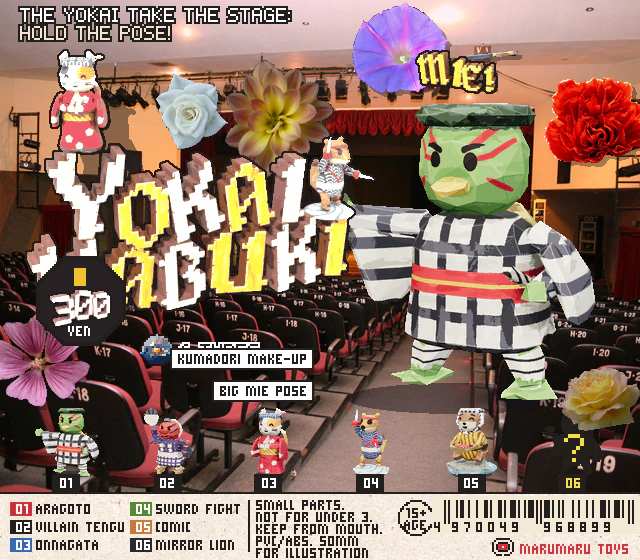
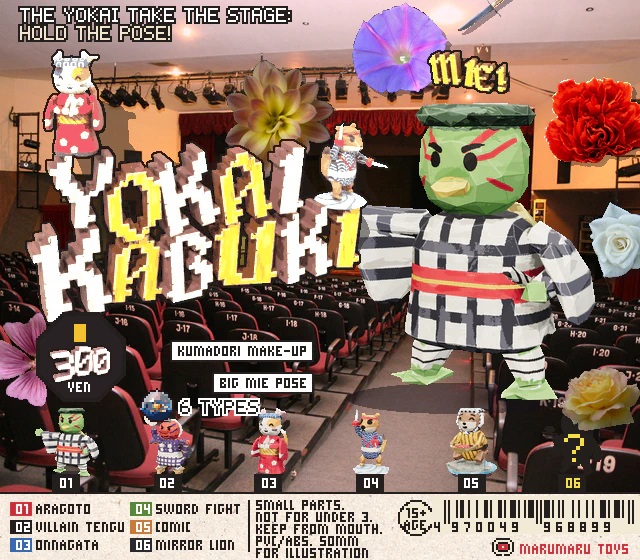
Work in progress (phase 6): Cards: fix SUIT, KABUKI and STATIONERY title legibility
A save point while the passes are still running. This snapshot builds; it has not been run-tested, and parts
that are mid-rebuild may fail at runtime. Don't ship from this commit.

Claude-Session: https://claude.ai/code/session_01N97Lkr91fG9tbEuHne6nWv

diff --git a/tools/logo3d.py b/tools/logo3d.py
@@ -67,10 +67,10 @@ def spec(sid, c, items, hero, box, name=None):
     # sizes: first letter of each line a step bigger, one more letter a little bigger; the lines balanced in width
     def width(row, s):
         return sum((g['w'] * s * g['k'] + 0.03 * s) if g else 0.34 * s for g in row)
-    for row in rows:
+    for j, row in enumerate(rows):  # the big first letter only on the bottom line (a big one on top reads as a stray)
         big = rn.randrange(1, max(2, len(row)))
         for i, g in enumerate(row):
-            if g: g['k'] = 1.24 if i == 0 and len(row) > 3 else 1.1 if i == big else 1.0
+            if g: g['k'] = 1.24 if i == 0 and len(row) > 3 and j == len(rows) - 1 else 1.1 if i == big else 1.0
     sl = [1.0] * n
     if two:
         wb = width(rows[-1], 1); wt = max(width(r, 1) for r in rows[:-1])
@@ -86,18 +86,21 @@ def spec(sid, c, items, hero, box, name=None):
         x += rn.uniform(-0.08, 0.08) if top else 0
         for i, g in enumerate(row):
             if not g: x += 0.34 * s; continue
+            if g['punct']: x += 0.1 * s  # punctuation stands clear of the word (never hides a letter)
             sk = s * g['k']; w = g['w'] * sk; sgn = -sgn
             tilt = sgn * rn.choice([2, 3, 5, 6]) if not g['punct'] else 0
             if j == 0 and i == lean: tilt = rn.choice([-1, 1]) * 10
-            fc = (pop if i % 2 else fill) if scheme == 'alt' else (pop if top else fill) if scheme == 'line' else (pop if i == 0 else fill)
+            fc = (pop if i % 2 else fill) if scheme == 'alt' else (pop if top else fill) if scheme == 'line' else (pop if i == 0 and j == 0 else fill)
             fc = mixc(fc, 0xffffff if rn.random() < 0.5 else 0x000000, rn.uniform(0.0, 0.06))  # each letter its own pot
             sd = mixc(deep(fc, 0.5), side, 0.3)  # the extruded side: a darker shade of the face, toward the series colour
-            g.update(s=sk, x=x + w / 2, y=(0.05 * (bot_line - j) + rn.uniform(-0.02, 0.04)) if top else (0.15 if i % 2 else 0.0),
+            g.update(s=sk, x=x + w / 2, y=(0.05 * (bot_line - j) + rn.uniform(-0.02, 0.04)) if top else (0.08 if i % 2 else 0.0),
                      line=j, depth=0.4, cham=min(0.22 * p, 0.035), tilt=tilt, yaw=rn.uniform(-8, 8) if not g['punct'] else 0,
                      pitch=rn.uniform(-4, 5), front=tones(fc), rim=tones(mixc(fc, 0xfff8e8, 0.45), (3, 5, 6)), side=tones(sd, (1, 3, 4)),
                      chip_f=_rgb(mixc(fc, 0xf4ecdc, 0.55)), chip_r=_rgb(deep(sd, 0.5)), chip_s=_rgb(mixc(sd, 0xf4ecdc, 0.45)),
                      stroke=(rn.uniform(-1.4, 1.4), rn.uniform(2.6, 4.0), rn.uniform(0.7, 1.0)), idx=i)
-            L.append(g); x += w + 0.03 * s
+            nx = row[i + 1] if i + 1 < len(row) else None
+            thin = g['w'] < 0.4 or (nx is not None and (nx['punct'] or nx['w'] < 0.4))  # air around I and punctuation
+            L.append(g); x += w + (0.1 if thin else 0.03) * s
     # toys: two or three of the series' own figures, each in a different role (never the card's hero)
     pool = [it['id'] for it in items if not it['secret'] and it['id'] != hero and os.path.exists(os.path.join(BUILD, sid, it['id'] + '.glb'))]
     rn.shuffle(pool); hs = min(sl[-1], 1.3)
@@ -126,8 +129,10 @@ def spec(sid, c, items, hero, box, name=None):
             at = max(cand, key=far) if used else rn.choice(cand)
             h = 1.35 * hs
         elif role in ('push', 'peek'):
-            at = bot[-1] if where == 'r' else bot[0]; h = (1.25 if role == 'push' else 1.45) * hs
-            if role == 'push': L[at]['tilt'] = (-12 if where == 'r' else 12)
+            ends = [k for k, g in enumerate(L) if g['line'] == bot_line]  # the true end glyph, punctuation too
+            at = (ends[-1] if role == 'push' else bot[-1]) if where == 'r' else (ends[0] if role == 'push' else bot[0])
+            h = (1.25 if role == 'push' else 1.45) * hs
+            if role == 'push' and not L[at]['punct']: L[at]['tilt'] = (-7 if where == 'r' else 7)
         else:
             at = bot[0] if free == 'r' else bot[-1]; h = 1.1 * hs  # hugging the outer corner of an end letter
         used.append(at)

diff --git a/tools/card7.py b/tools/card7.py
@@ -232,8 +232,9 @@ def designer(K, c):
     if c.get('flow'):  # right-hand logos: the price and the capsule flow under the kicker
         ky = ty + 9 * len(c['kick']) + 20; c['price_at'] = (tx + 31, ky); c['caps'] = (tx + 70, ky - 7)
     px, py = c['price_at']; st = c.get('price', 'coin'); pr = G3('_price')
-    if not c.get('flow') and px - 32 < kb[2] and px + 32 > kb[0] and py - 22 < kb[3]:  # the bigger logo pushed the kicker down
-        d_ = min(178, kb[3] + 24) - py; py += d_; c = dict(c, caps=(c['caps'][0], c['caps'][1] + d_))
+    over = [b_ for b_ in (bb, kb) if px - 32 < b_[2] and px + 32 > b_[0] and py - 22 < b_[3]]
+    if not c.get('flow') and over:  # the bigger logo (or the kicker it pushed down) would cover the price: move it below
+        d_ = max(0, min(178, max(b_[3] for b_ in over) + 24) - py); py += d_; c = dict(c, caps=(c['caps'][0], c['caps'][1] + d_))
     price_piece(F, st, px, py, K.s['price'], c.get('pricecol', GOLD), num=pr is None)
     if pr is not None:  # the 3D price stands on the piece where the printed number was
         qx, qy = {'coin': (px, py - 2), 'tsuba': (px, py + 4), 'ticket': (px - 9, py - 4)}[st]
